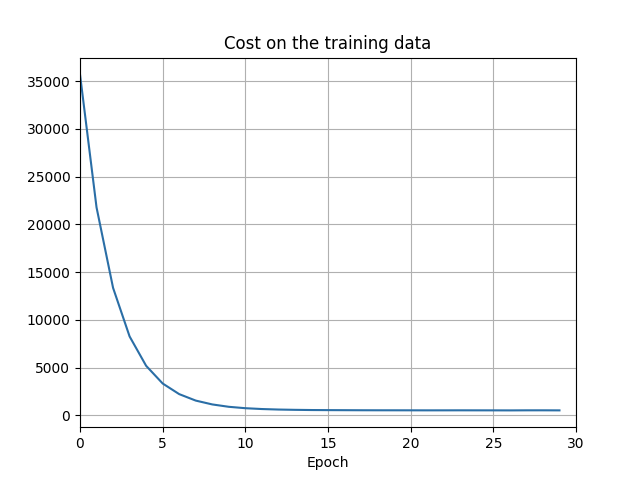
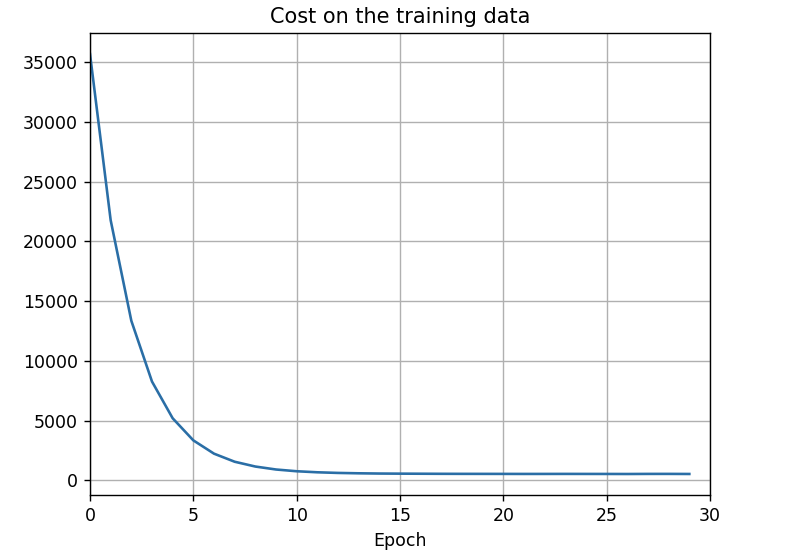
Re-worked images for summary file

Changed region(s): [[0.0312, 0.0, 0.9375, 1.0], [0.75, 0.625, 0.7812, 0.6875], [0.2188, 0.1562, 0.2812, 0.1875]]

diff --git a/fashion_NN2.py b/fashion_NN2.py
@@ -212,11 +212,11 @@ class Network(object):
             if monitor_evaluation_cost:
                 cost = self.total_cost(evaluation_data, lmbda, convert=True)
                 evaluation_cost.append(cost)
-                print("Cost on evaluation data: {}".format(cost))
+                # print("Cost on evaluation data: {}".format(cost))
             if monitor_evaluation_accuracy:
                 accuracy = self.accuracy(evaluation_data)
                 evaluation_accuracy.append(accuracy)
-                print("Accuracy on evaluation data: {} / {}".format(self.accuracy(evaluation_data), n_data))
+                # print("Accuracy on evaluation data: {} / {}".format(self.accuracy(evaluation_data), n_data))
 
             # Early stopping:
             if early_stopping_n > 0:
@@ -423,14 +423,18 @@ def sigmoid_prime(z):
 #             lmbda=0.1, monitor_evaluation_cost=True, monitor_evaluation_accuracy=True, 
 #             monitor_training_cost=True, monitor_training_accuracy=True)
 
-def main():
-    from utils import mnist_reader
-    training_data, test_data = mnist_reader.load_data_wrapper()
-    net = Network([784,30,10], cost=CrossEntropyCost)
-    net.large_weight_initializer()
-    net.SGD(list(training_data)[:1000], 30, 10, 0.5,  evaluation_data=test_data, 
-            lmbda=0.1, monitor_evaluation_cost=True, monitor_evaluation_accuracy=True, 
-            monitor_training_cost=True, monitor_training_accuracy=True)
+# def main():
+#     from utils import mnist_reader
+#     training_data, test_data = mnist_reader.load_data_wrapper()
+#     net = Network([784,30,10], cost=CrossEntropyCost)
+#     net.large_weight_initializer()
+#     # sgd with  evaluation data (works)
+#     # net.SGD(list(training_data)[:1000], 30, 10, 0.5,  evaluation_data=test_data, 
+#     #         lmbda=0.1, monitor_evaluation_cost=True, monitor_evaluation_accuracy=True, 
+#     #         monitor_training_cost=True, monitor_training_accuracy=True)
+#     net.SGD(list(training_data)[:1000], 30, 10, 0.5, lmbda=0.1, 
+#             monitor_training_cost=True, monitor_training_accuracy=True)
 
 
-main()
+
+# main()

diff --git a/tempCodeRunnerFile.py b/tempCodeRunnerFile.py
@@ -1,0 +1,1 @@
+Cost on 

diff --git a/README.md b/README.md
@@ -1,9 +1,15 @@
 # Introduction
 
-Over this past year i've committed myself to the dense reading of "Neural Networks and Deep Learning" by Michael Nielsen. This book breaks down
+Over this past year i've committed myself to the dense reading of "Neural Networks and Deep Learning" by Michael Nielsen. This project encmopasses the many hours i've spent diving deep into the math and low-level logic of neural networks.
+
+Initially, this deep nueral network was set to an arbitrary 30 epochs. The results of 30 cycles on the training data are displayed in Figure 1.
+
+![](img/epoch29_output.png)Figure 1
+
+<!-- ctrl + shift + v for markdown preview -->
+
+For a visuallization  of this, we can see the cost on the training data in Figure 2. It slopes down dramitcally between epochs 0 throgh 10. After that, the amount of cost reduction versus time and computational power severly decreases. Interestingly, it seems the graph takes on a y=1/x shape.
+![](img/cost_on_training_data.png) Figure 2
 
 
 
-
-# ctrl + shift + v for markdown preview
-![](img/cost_on_test_data.png)
